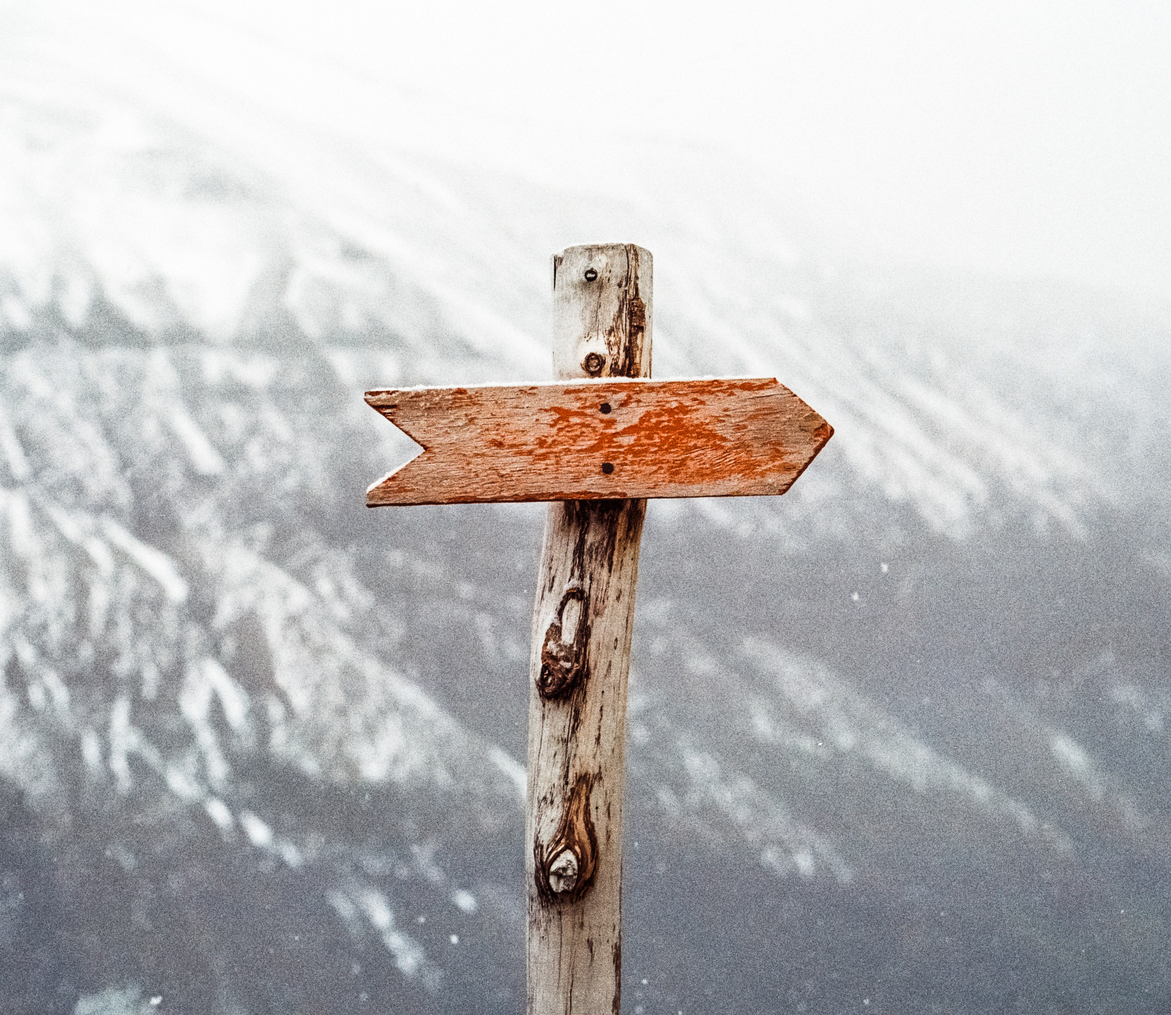
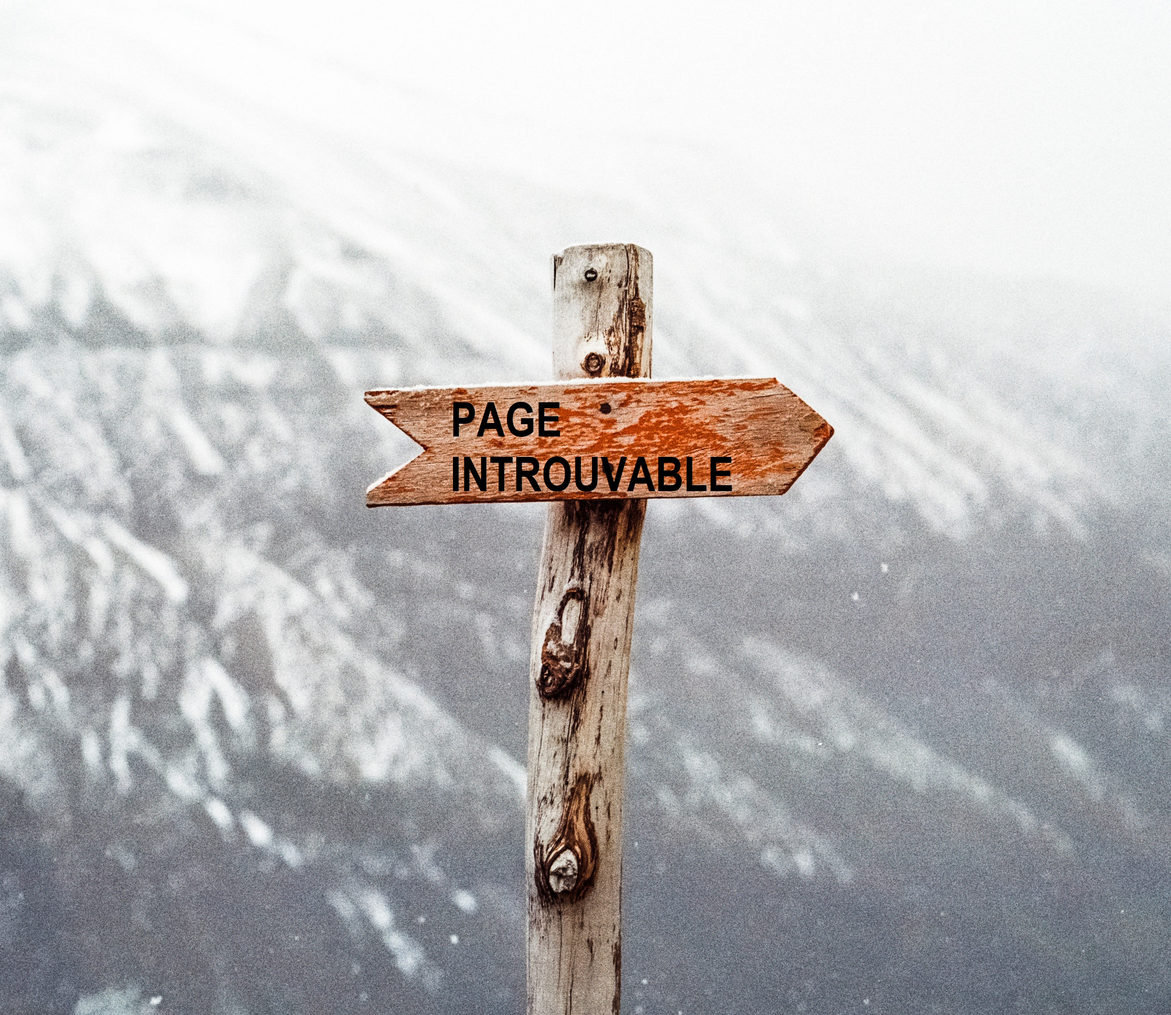
style error pages

Changed region(s): [[0.3719, 0.3723, 0.6199, 0.4965]]

diff --git a/assets/styles/app.scss b/assets/styles/app.scss
@@ -61,6 +61,11 @@ h1{
 h2{
 	font-size : 1.7rem;
 }
+.opacity-over-background{
+	background-color :rgb(231, 225, 225, 0.4);
+	width : 100%;
+	height : 100%;
+}
 
 /***Header***/
 header{
